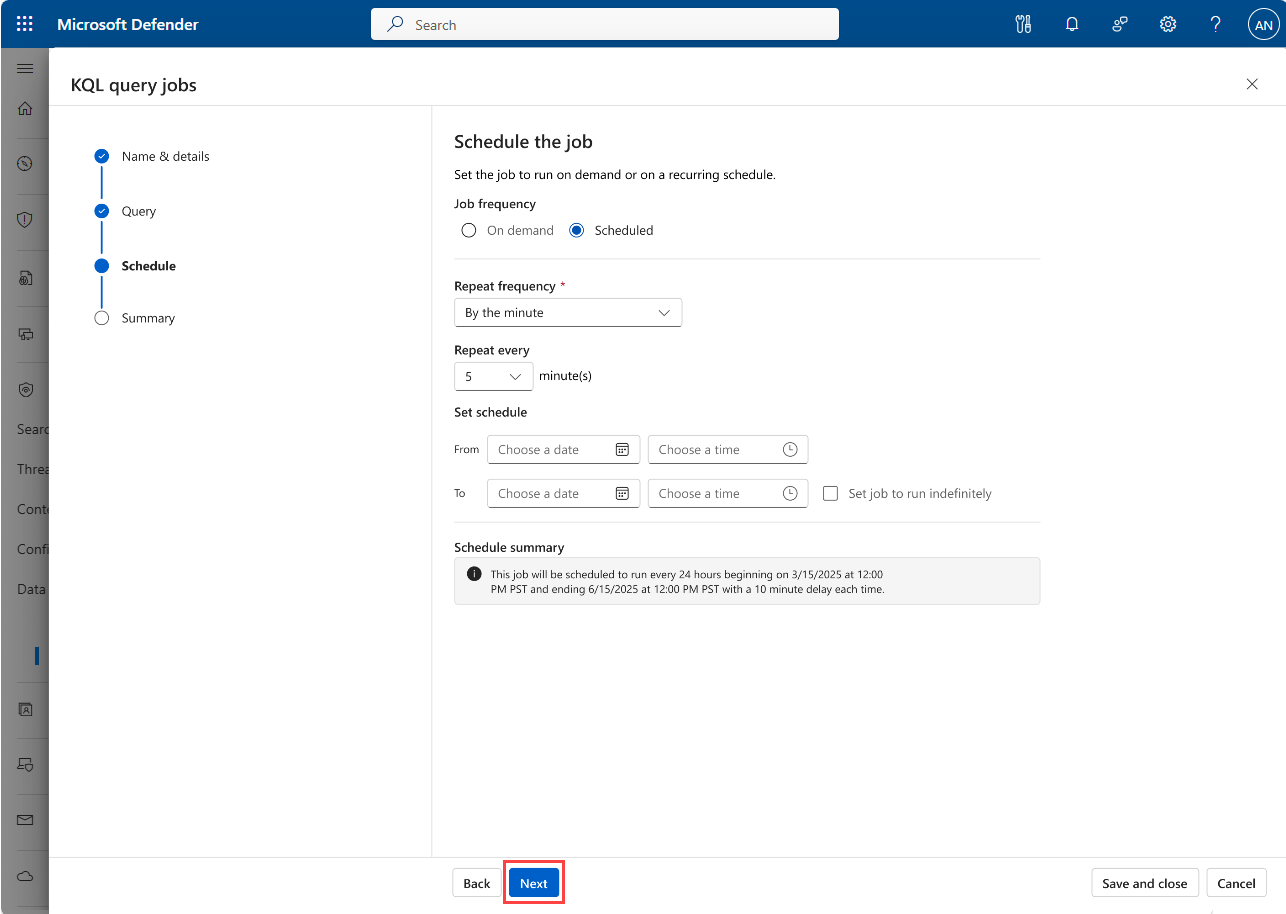
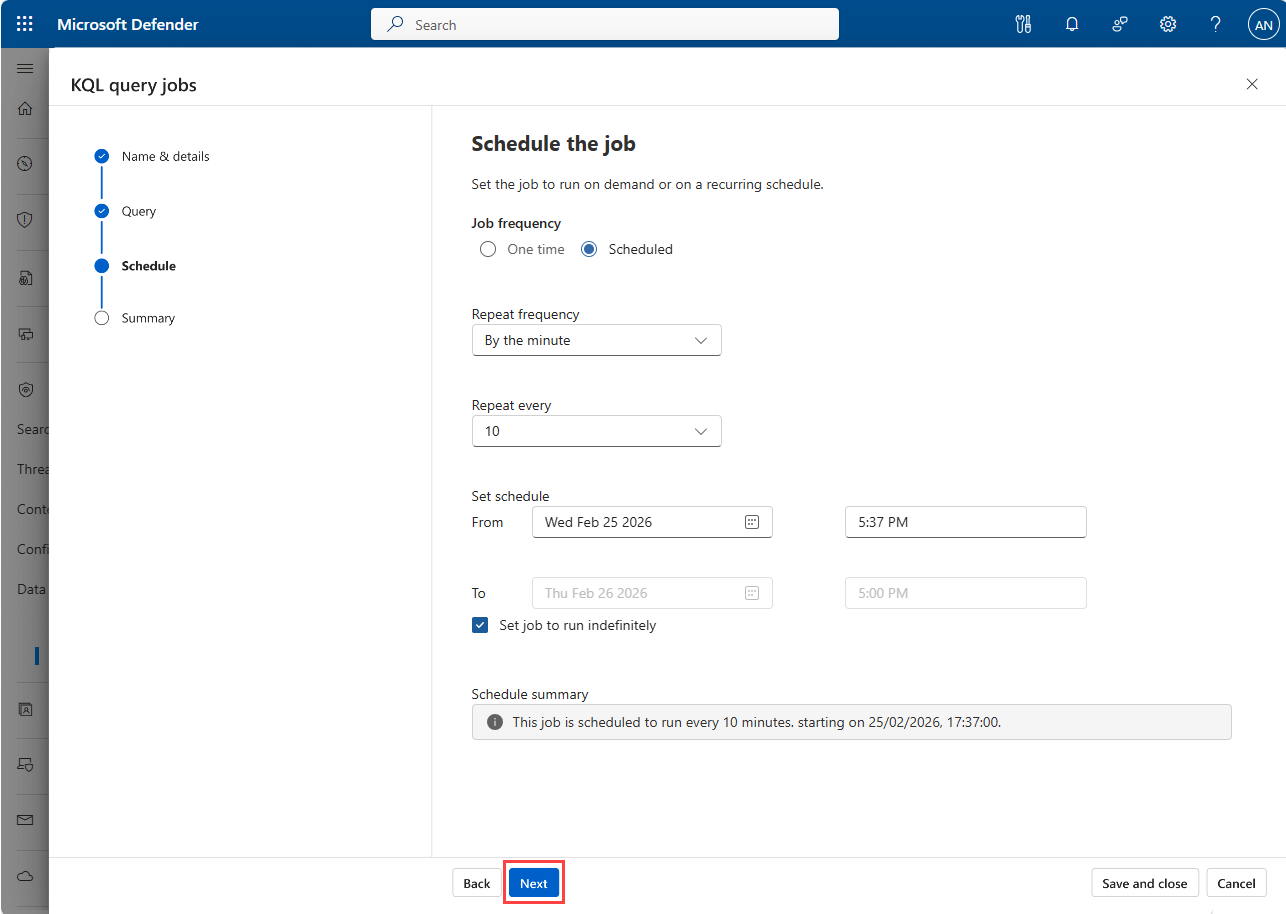
update date field

diff --git a/articles/sentinel/datalake/kql-jobs.md b/articles/sentinel/datalake/kql-jobs.md
@@ -110,8 +110,8 @@ You can create jobs to run on a schedule or one-time. When you create a job, you
 1. If you selected **Schedule**, enter the following details:
     1. Select the **Repeat frequency** from the drop-down. You can select **By minute**, **Hourly**, **Daily**, **Weekly**, or **Monthly**. 
     1. Set the **Repeat every** value for how often you want the job to run with respect to the selected frequency.
-    1. Under **Set schedule**, enter the **From** dates and time. The job start time in the **From** field must be at least 30 minutes after job creation. The job runs from this date and time according to the frequency select in the **Run every** dropdown.
-    1. Select the **To** date and time to specify when the job schedule finishes. If you want the schedule to continue indefinitely, select **Set job to run indefinitely**.
+    1. Under **Set schedule**, select a **From** date and enter a time. The job start time in the **From** field must be at least 30 minutes after job creation. The job runs from this date and time according to the frequency select in the **Run every** dropdown.
+    1. Select the **To** date, and enter a time to specify when the job schedule finishes. If you want the schedule to continue indefinitely, select **Set job to run indefinitely**.
 
     Job from and to times are set for the user's locale.
 
